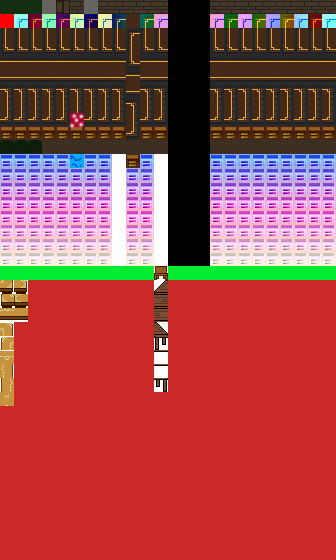
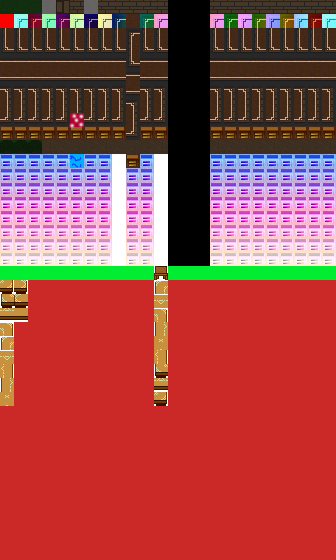
Adjusted Den puzzle code for mko's art tiles, saved state of stairs room after solving puzzle, working on search function

Changed region(s): [[0.4464, 0.4857, 0.506, 0.7286]]

diff --git a/js/World.js b/js/World.js
@@ -18,7 +18,6 @@ var worldGrid = [];
 var roomArtSet = 0;
 var rotDoor;
 
-var stairsPuzzleSolved = false;
 
 // ******BEGIN MAP EDITOR******
 
@@ -29,7 +28,7 @@ var levelStudy =
 		 10, 0, 0, 0, 0, 0, 0, 0, 0, 0, 0, 0, 0, 0, 0, 10,
 		 10, 0, 0, 0, 0, 0, 0, 0, 0, 0, 0, 0, 0, 0, 0, 10,
 		 10, 0, 0, 0, 0, 0, 0, 0, 0, 0, 0, 0, 0, 0, 0, 10,
-		 10, 0, 0, 0, 0, 0, 0, 100, 0, 0, 0, 0, 0, 0, 0, 10,
+		 10, 0, 0, 0, 0, 0, 0, 0, 0, 0, 0, 0, 0, 0, 0, 10,
 		 10, 0, 0, 0, 0, 0, 0, 0, 0, 0, 0, 0, 0, 0, 0, 0,
 		 10, 0, 0, 0, 0, 0, 0, 0, 0, 0, 0, 0, 0, 0, 0, 10,
 		 10, 0, 0, 0, 0, 0, 0, 0, 0, 0, 0, 0, 0, 0, 0, 10,
@@ -58,9 +57,9 @@ var levelDen =
 		 10, 0, 0, 0, 21, 0, 0, 0, 0, 0, 0, 0, 23, 0, 0, 10,
 		 10, 0, 0, 0, 0, 0, 22, 0, 0, 0, 0, 0, 0, 0, 0, 10,
 		 10, 0, 0, 0, 0, 20, 0, 25, 26, 0, 0, 0, 0, 0, 0, 10,
-		 205, 0, 0, 0, 0, 0, 0, 0, 0, 0, 0, 0, 0, 0, 0, 10,
+		 0, 0, 0, 0, 0, 0, 0, 0, 0, 0, 0, 0, 0, 0, 0, 10,
 		 10, 0, 24, 0, 0, 0, 0, 0, 0, 0, 0, 0, 0, 27, 0, 10,
-		 10, 0, 0, 0, 0, 0, 0, 0, 0, 0, 0, 0, 0, 0, 0, 10,
+		 10, 0, 0, 0, 0, 0, 0, 0, 0, 0, 0, 28, 0, 0, 0, 10,
 		 10, 0, 0, 0, 0, 0, 0, 0, 0, 0, 0, 0, 0, 0, 0, 10,
 		 10, 10, 10, 10, 10, 10, 10, 10, 10, 10, 10, 10, 10, 10, 10, 10,
 	];
@@ -71,7 +70,7 @@ var levelFoyerStairs =
 		 10, 0, 0, 0, 0, 0, 0, 0, 0, 0, 0, 0, 0, 0, 0, 10,
 		 10, 0, 0, 0, 0, 0, 0, 0, 0, 0, 0, 0, 0, 0, 0, 10,
 		 10, 0, 0, 0, 0, 0, 0, 0, 0, 0, 0, 0, 0, 0, 0, 10,
-		 10, 0, 0, 0, 0, 0, 0, 100, 0, 0, 0, 0, 0, 0, 0, 10,
+		 10, 0, 0, 0, 0, 0, 0, 0, 0, 0, 0, 0, 0, 0, 0, 10,
 		 0, 0, 0, 0, 0, 0, 0, 0, 0, 0, 0, 0, 0, 0, 0, 0,
 		 10, 0, 0, 0, 0, 0, 0, 0, 0, 0, 0, 0, 0, 0, 0, 10,
 		 10, 0, 0, 0, 0, 0, 0, 0, 0, 0, 0, 0, 0, 0, 0, 10,
@@ -85,7 +84,7 @@ var levelDiningRoom =
 		 10, 0, 0, 0, 0, 0, 0, 0, 0, 0, 0, 0, 0, 0, 0, 10,
 		 10, 0, 0, 0, 0, 0, 0, 0, 0, 0, 0, 0, 0, 0, 0, 10,
 		 10, 0, 0, 0, 0, 0, 0, 0, 0, 0, 0, 0, 0, 0, 0, 10,
-		 10, 0, 0, 0, 0, 0, 0, 100, 0, 0, 0, 0, 0, 0, 0, 10,
+		 10, 0, 0, 0, 0, 0, 0, 0, 0, 0, 0, 0, 0, 0, 0, 10,
 		 0, 0, 0, 0, 0, 0, 0, 0, 0, 0, 0, 0, 0, 0, 0, 10,
 		 10, 0, 0, 0, 0, 0, 0, 0, 0, 0, 0, 0, 0, 0, 0, 10,
 		 10, 0, 0, 0, 0, 0, 0, 0, 0, 0, 0, 0, 0, 0, 0, 10,
@@ -113,7 +112,7 @@ var levelKitchen =
 		 10, 0, 0, 0, 11, 11, 11, 11, 11, 11, 11, 11, 0, 0, 0, 10,
 		 10, 0, 0, 0, 11, 11, 11, 11, 11, 11, 11, 11, 0, 0, 0, 10,
 		 10, 0, 0, 0, 11, 11, 11, 11, 11, 11, 11, 11, 0, 11, 0, 10,
-		 10, 0, 0, 0, 0, 0, 0, 100, 0, 0, 0, 0, 0, 0, 0, 10,
+		 10, 0, 0, 0, 0, 0, 0, 0, 0, 0, 0, 0, 0, 0, 0, 10,
 		 10, 0, 0, 0, 0, 0, 0, 0, 0, 0, 0, 0, 0, 0, 0, 10,
 		 10, 0, 0, 0, 0, 0, 0, 0, 0, 0, 0, 0, 0, 0, 0, 10,
 		 10, 0, 0, 0, 0, 15, 0, 0, 0, 0, 0, 0, 0, 0, 0, 10,
@@ -127,7 +126,7 @@ var levelGardenLeft =
 		 10, 0, 0, 0, 0, 0, 0, 0, 0, 0, 0, 0, 0, 0, 0, 0,
 		 10, 0, 0, 0, 0, 0, 0, 0, 0, 0, 0, 0, 0, 0, 0, 0,
 		 10, 0, 0, 0, 0, 0, 0, 0, 0, 0, 0, 0, 0, 0, 0, 0,
-		 10, 0, 0, 0, 0, 0, 0, 100, 0, 0, 0, 0, 0, 0, 0, 0,
+		 10, 0, 0, 0, 0, 0, 0, 0, 0, 0, 0, 0, 0, 0, 0, 0,
 		 10, 0, 0, 0, 0, 0, 0, 0, 0, 0, 0, 0, 0, 0, 0, 0,
 		 10, 0, 0, 0, 0, 0, 0, 0, 0, 0, 0, 0, 0, 0, 0, 0,
 		 10, 0, 0, 0, 0, 0, 0, 0, 0, 0, 0, 0, 0, 0, 0, 0,
@@ -141,7 +140,7 @@ var levelGardenMiddle =
 		 0, 0, 0, 0, 0, 0, 0, 0, 0, 0, 0, 0, 0, 0, 0, 0,
 		 0, 0, 0, 0, 0, 0, 0, 0, 0, 0, 0, 0, 0, 0, 0, 0,
 		 0, 0, 0, 0, 0, 0, 0, 0, 0, 0, 0, 0, 0, 0, 0, 0,
-		 0, 0, 0, 0, 0, 0, 0, 100, 0, 0, 0, 0, 0, 0, 0, 0,
+		 0, 0, 0, 0, 0, 0, 0, 0, 0, 0, 0, 0, 0, 0, 0, 0,
 		 0, 0, 0, 0, 0, 0, 0, 0, 0, 0, 0, 0, 0, 0, 0, 0,
 		 0, 0, 0, 0, 0, 0, 0, 0, 0, 0, 0, 0, 0, 0, 0, 0,
 		 0, 0, 0, 0, 0, 0, 0, 0, 0, 0, 0, 0, 0, 0, 0, 0,
@@ -155,7 +154,7 @@ var levelGardenRight =
 		 0, 0, 0, 0, 0, 0, 0, 0, 0, 0, 0, 0, 0, 0, 0, 10,
 		 0, 0, 0, 0, 0, 0, 0, 0, 0, 0, 0, 0, 0, 0, 0, 10,
 		 0, 0, 0, 0, 0, 0, 0, 0, 0, 0, 0, 0, 0, 0, 0, 10,
-		 0, 0, 0, 0, 0, 0, 0, 100, 0, 0, 0, 0, 0, 0, 0, 10,
+		 0, 0, 0, 0, 0, 0, 0, 0, 0, 0, 0, 0, 0, 0, 0, 10,
 		 0, 0, 0, 0, 0, 0, 0, 0, 0, 0, 0, 0, 0, 0, 0, 10,
 		 0, 0, 0, 0, 0, 0, 0, 0, 0, 0, 0, 0, 0, 0, 0, 10,
 		 0, 0, 0, 0, 0, 0, 0, 0, 0, 0, 0, 0, 0, 0, 0, 10,
@@ -184,7 +183,7 @@ var levelBedroomTwo =
 		 10, 0, 0, 0, 0, 0, 0, 0, 0, 0, 0, 0, 0, 0, 0, 10,
 		 10, 0, 0, 0, 0, 0, 0, 0, 0, 0, 0, 0, 0, 0, 0, 10,
 		 10, 0, 0, 0, 0, 0, 0, 0, 0, 0, 0, 0, 0, 0, 0, 10,
-		 10, 0, 0, 0, 0, 0, 0, 100, 0, 0, 0, 0, 0, 0, 0, 10,
+		 10, 0, 0, 0, 0, 0, 0, 0, 0, 0, 0, 0, 0, 0, 0, 10,
 		 10, 0, 0, 0, 0, 0, 0, 0, 0, 0, 0, 0, 0, 0, 0, 10,
 		 10, 0, 0, 0, 0, 0, 0, 0, 0, 0, 0, 0, 0, 0, 0, 10,
 		 10, 0, 0, 0, 0, 0, 0, 0, 0, 0, 0, 0, 0, 0, 0, 10,
@@ -198,7 +197,7 @@ var levelBedroomThree =
 		 10, 0, 0, 0, 0, 0, 0, 0, 0, 0, 0, 0, 0, 0, 0, 10,
 		 10, 0, 0, 0, 0, 0, 0, 0, 0, 0, 0, 0, 0, 0, 0, 10,
 		 10, 0, 0, 0, 0, 0, 0, 0, 0, 0, 0, 0, 0, 0, 0, 10,
-		 10, 0, 0, 0, 0, 0, 0, 100, 0, 0, 0, 0, 0, 0, 0, 10,
+		 10, 0, 0, 0, 0, 0, 0, 0, 0, 0, 0, 0, 0, 0, 0, 10,
 		 10, 0, 0, 0, 0, 0, 0, 0, 0, 0, 0, 0, 0, 0, 0, 10,
 		 10, 0, 0, 0, 0, 0, 0, 0, 0, 0, 0, 0, 0, 0, 0, 10,
 		 10, 0, 0, 0, 0, 0, 0, 0, 0, 0, 0, 0, 0, 0, 0, 10,
@@ -212,7 +211,7 @@ var levelHallwayLeft =
 		 10, 0, 0, 0, 0, 0, 0, 0, 0, 0, 0, 0, 0, 0, 0, 0,
 		 10, 0, 0, 0, 0, 0, 0, 0, 0, 0, 0, 0, 0, 0, 0, 0,
 		 10, 0, 0, 0, 0, 0, 0, 0, 0, 0, 0, 0, 0, 0, 0, 0,
-		 10, 0, 0, 0, 0, 0, 0, 100, 0, 0, 0, 0, 0, 0, 0, 0,
+		 10, 0, 0, 0, 0, 0, 0, 0, 0, 0, 0, 0, 0, 0, 0, 0,
 		 10, 0, 0, 0, 0, 0, 0, 0, 0, 0, 0, 0, 0, 0, 0, 0,
 		 10, 0, 0, 0, 0, 0, 0, 0, 0, 0, 0, 0, 0, 0, 0, 0,
 		 10, 0, 0, 0, 0, 0, 0, 0, 0, 0, 0, 0, 0, 0, 0, 0,
@@ -226,7 +225,7 @@ var levelHallwayMiddle =
 		 0, 0, 0, 0, 0, 0, 0, 0, 0, 0, 0, 0, 0, 0, 0, 0,
 		 0, 0, 0, 0, 0, 0, 0, 0, 0, 0, 0, 0, 0, 0, 0, 0,
 		 0, 0, 0, 0, 0, 0, 0, 0, 0, 0, 0, 0, 0, 0, 0, 0,
-		 0, 0, 0, 0, 0, 0, 0, 100, 0, 0, 0, 0, 0, 0, 0, 0,
+		 0, 0, 0, 0, 0, 0, 0, 0, 0, 0, 0, 0, 0, 0, 0, 0,
 		 0, 0, 0, 0, 0, 0, 0, 0, 0, 0, 0, 0, 0, 0, 0, 0,
 		 0, 0, 0, 0, 0, 0, 0, 0, 0, 0, 0, 0, 0, 0, 0, 0,
 		 0, 0, 0, 0, 0, 0, 0, 0, 0, 0, 0, 0, 0, 0, 0, 0,
@@ -240,7 +239,7 @@ var levelHallwayRight =
 		 0, 0, 0, 0, 0, 0, 0, 0, 0, 0, 0, 0, 0, 0, 0, 10,
 		 0, 0, 0, 0, 0, 0, 0, 0, 0, 0, 0, 0, 0, 0, 0, 10,
 		 0, 0, 0, 0, 0, 0, 0, 0, 0, 0, 0, 0, 0, 0, 0, 10,
-		 0, 0, 0, 0, 0, 0, 0, 100, 0, 0, 0, 0, 0, 0, 0, 10,
+		 0, 0, 0, 0, 0, 0, 0, 0, 0, 0, 0, 0, 0, 0, 0, 10,
 		 0, 0, 0, 0, 0, 0, 0, 0, 0, 0, 0, 0, 0, 0, 0, 10,
 		 0, 0, 0, 0, 0, 0, 0, 0, 0, 0, 0, 0, 0, 0, 0, 10,
 		 0, 0, 0, 0, 0, 0, 0, 0, 0, 0, 0, 0, 0, 0, 0, 10,
@@ -254,7 +253,7 @@ var levelBedroomFour =
 		 10, 0, 0, 0, 0, 0, 8, 8, 8, 0, 0, 0, 0, 0, 0, 10,
 		 10, 0, 0, 0, 0, 0, 8, 8, 8, 0, 0, 0, 0, 0, 0, 10,
 		 10, 0, 0, 0, 0, 0, 8, 8, 8, 0, 0, 0, 0, 0, 0, 10,
-		 10, 0, 0, 0, 0, 0, 0, 100, 0, 0, 0, 0, 0, 0, 0, 10,
+		 10, 0, 0, 0, 0, 0, 0, 0, 0, 0, 0, 0, 0, 0, 0, 10,
 		 10, 0, 0, 0, 0, 0, 0, 0, 0, 0, 0, 0, 0, 0, 0, 10,
 		 10, 0, 0, 0, 0, 0, 0, 0, 0, 0, 0, 0, 0, 0, 0, 10,
 		 10, 0, 0, 0, 0, 0, 0, 0, 0, 0, 10, 10, 10, 10, 10, 10,
@@ -268,7 +267,7 @@ var levelKitchenBedroomFourMerged =
 	 10, 0, 0, 0, 11, 11, 8, 8, 8, 11, 11, 11, 0, 0, 0, 10,
 	 10, 0, 0, 0, 11, 11, 8, 8, 8, 11, 11, 11, 0, 0, 0, 10,
 	 10, 0, 0, 0, 11, 11, 8, 8, 8, 11, 11, 11, 0, 11, 0, 10,
-	 10, 0, 0, 0, 0, 0, 0, 100, 0, 0, 0, 0, 0, 0, 0, 10,
+	 10, 0, 0, 0, 0, 0, 0, 0, 0, 0, 0, 0, 0, 0, 0, 10,
 	 10, 0, 0, 0, 0, 0, 0, 0, 0, 0, 0, 0, 0, 0, 0, 10,
 	 10, 0, 0, 0, 0, 0, 0, 0, 0, 0, 0, 0, 0, 0, 0, 10,
 	 10, 0, 0, 0, 0, 19, 0, 0, 0, 0, 0, 0, 0, 0, 0, 10,
@@ -284,7 +283,7 @@ var levelBasementFoyerEntrance =
 		 10, 0, 0, 0, 0, 0, 0, 0, 0, 0, 0, 0, 0, 0, 0, 10,
 		 10, 0, 0, 0, 0, 0, 0, 0, 0, 0, 0, 0, 0, 0, 0, 10,
 		 10, 0, 0, 0, 0, 0, 0, 0, 0, 0, 0, 0, 0, 0, 0, 10,
-		 10, 0, 0, 0, 0, 0, 0, 100, 0, 0, 0, 0, 0, 0, 0, 10,
+		 10, 0, 0, 0, 0, 0, 0, 0, 0, 0, 0, 0, 0, 0, 0, 10,
 		 10, 0, 0, 0, 0, 0, 0, 0, 0, 0, 0, 0, 0, 0, 0, 0,
 		 10, 0, 0, 0, 0, 0, 0, 0, 0, 0, 0, 0, 0, 0, 0, 10,
 		 10, 0, 0, 0, 0, 0, 0, 0, 0, 0, 0, 0, 0, 0, 0, 10,
@@ -299,7 +298,7 @@ var levelBasementGardenExit =
 		 10, 0, 0, 0, 0, 0, 0, 0, 0, 0, 0, 0, 0, 0, 0, 10,
 		 10, 0, 0, 0, 0, 0, 0, 0, 0, 0, 0, 0, 0, 0, 0, 10,
 		 10, 0, 0, 0, 0, 0, 0, 0, 0, 0, 0, 0, 0, 0, 0, 10,
-		 10, 0, 0, 0, 0, 0, 0, 100, 0, 0, 0, 0, 0, 0, 0, 10,
+		 10, 0, 0, 0, 0, 0, 0, 0, 0, 0, 0, 0, 0, 0, 0, 10,
 		 10, 0, 0, 0, 0, 0, 0, 0, 0, 0, 0, 0, 0, 0, 0, 10,
 		 10, 0, 0, 0, 0, 0, 0, 0, 0, 0, 0, 0, 0, 0, 0, 10,
 		 10, 0, 0, 0, 0, 0, 0, 0, 0, 0, 0, 0, 0, 0, 0, 10,
@@ -312,7 +311,7 @@ var levelAttic =
 		 10, 0, 0, 0, 0, 0, 0, 0, 0, 0, 0, 0, 0, 0, 0, 10,
 		 10, 0, 0, 0, 0, 0, 0, 0, 0, 0, 0, 0, 0, 0, 0, 10,
 		 10, 0, 0, 0, 0, 0, 0, 0, 0, 0, 0, 0, 0, 0, 0, 10,
-		 10, 0, 0, 0, 0, 0, 0, 100, 0, 0, 0, 0, 0, 0, 0, 10,
+		 10, 0, 0, 0, 0, 0, 0, 0, 0, 0, 0, 0, 0, 0, 0, 10,
 		 10, 0, 0, 0, 0, 0, 0, 0, 0, 0, 0, 0, 0, 0, 0, 10,
 		 10, 0, 0, 0, 0, 0, 0, 0, 0, 0, 0, 0, 0, 0, 0, 10,
 		 10, 0, 0, 0, 0, 0, 0, 0, 0, 0, 0, 0, 0, 0, 0, 10,

diff --git a/js/RoomCheck.js b/js/RoomCheck.js
@@ -1,22 +1,40 @@
 var denPuzzleSolved = false;
+var stairsPuzzleSolved = false;
 
 function checkRoomLogic()
 {
     checkDen();
+    checkStairs();
+}
+
+function checkFoyerEntrance()
+{
+
 }
 
 function checkDen()
 {
-    if (roomCoordToIndex() == ROOM_ID_DEN)
+    if (roomCoordToIndex() == ROOM_ID_DEN && denPuzzleSolved == false)
     {
-        if (worldGrid[69] == 20 && worldGrid[70] == 21 && worldGrid[71] == 22 && worldGrid[72] == 23
-                && worldGrid[85] == 24 && (worldGrid[86] == 25 || worldGrid[86] == 26) && (worldGrid[87] == 26 || worldGrid[87] == 25) && worldGrid[88] == 27
-                && denPuzzleSolved == false) // Check if all table pieces are assembled in the correct order. Bottom middle pieces are interchangeable
+        if (worldGrid[69] == 20 && worldGrid[70] == 21 && worldGrid[71] == 22
+                && worldGrid[85] == 23 && worldGrid[86] == 24 && worldGrid[87] == 25
+                && worldGrid[101] == 26 && worldGrid[102] == 27 && worldGrid[103] == 28
+                && denPuzzleSolved == false) // Check if all table pieces are assembled in the correct order
         {
             denPuzzleSolved = true;
             spawnKey(TILE_KEY_GARDEN, 91);
-            postMessage("Dialogue bark for den puzzle solved.");
+            postMessage(dialogueDenPuzzleSolved);
         }
+    }
+}
+
+function checkStairs()
+{
+    if (roomCoordToIndex() == ROOM_ID_STAIRS && stairsPuzzleSolved)
+    {      
+        roomLayout[roomCoordToIndex()][18] = 0; // Delete original mirror
+        roomLayout[roomCoordToIndex()][24] = 19; // Move fixed mirror to midde
+        roomLayout[roomCoordToIndex()][140] = 0; // Delete ghost roman
     }
 }
 

diff --git a/js/Enemy.js b/js/Enemy.js
@@ -139,13 +139,14 @@ function EnemyClass()
 	        if (roman.x > centerOfRoomCoordRoman && worldGrid[24] < TILES_PUSHABLE_FIRST)
 	        {
 	            roman.x = centerOfRoomCoordRoman;
-	            postMessage(dialogueEnemyRomanWithoutMirror);
+	            postMessage(dialogueGhostRoman);
 	        }
 	        else if (roman.x > centerOfRoomCoordRoman && worldGrid[24] >= TILES_PUSHABLE_FIRST)
 	        {
 	            this.isFrozen = true;
 	            stairsPuzzleSolved = true;
-	            postMessage(dialogueEnemyRomanWithMirror);
+	            worldGrid[24] = 19;
+	            postMessage(dialogueStairsPuzzleSolved);
 	        }
 	    }	    
 	}

diff --git a/js/Dialogue.js b/js/Dialogue.js
@@ -1,2 +1,7 @@
-var dialogueEnemyRomanWithoutMirror = "Ghost Roman will not allow you to pass.";
-var dialogueEnemyRomanWithMirror = "Ghost Roman is mesmorized by his reflection.";
+var dialogueStairsPuzzleNotSolved = "Ghost Roman will not allow you to pass.";
+var dialogueGhostRoman = "Ghost Roman will not allow you to pass.";
+var dialogueStairsPuzzleSolved = "Ghost Roman is mesmorized by his reflection.";
+
+var dialogueDenPuzzleNotSolved = "Hint: Top left piece of the table is already in the correct spot.";
+var dialogueDenPuzzleSolved = "Dialogue bark for den puzzle solved.";
+

diff --git a/js/Main.js b/js/Main.js
@@ -85,9 +85,13 @@ function loadLevel(whichLevelIdx, preservePlayerStart)
 		enemyList.push(tempEnemy);
 		tempEnemy = new EnemyClass();
 	}
-	if (whichLevelIdx == ROOM_ID_DEN)
+	if (whichLevelIdx == ROOM_ID_DEN && denPuzzleSolved == false)
 	{
-	    postMessage("Hint: Top left piece of the table is already in the correct spot.");
+	    postMessage(dialogueDenPuzzleNotSolved);
+	}
+	else if (whichLevelIdx == ROOM_ID_STAIRS && stairsPuzzleSolved == false)
+	{
+	    postMessage(dialogueStairsPuzzleNotSolved);
 	}
 	else if (isFlashLightNeededButMissing())
 	{

diff --git a/js/Input.js b/js/Input.js
@@ -5,6 +5,7 @@ const KEY_DOWN_ARROW = 40;
 const KEY_SPACE = 32;
 
 const KEY_L = 76;
+const KEY_F = 70;
 const KEY_1 = 49;
 const KEY_2 = 50;
 const KEY_3 = 51;
@@ -61,9 +62,12 @@ function keyPressed(evt)
             editorTileSelected = true;
             displayCurrentRoomTiles();
         }
+    }
 
-
-	}
+    if (evt.keyCode == KEY_F)
+    {
+        roman.search(romanCurrentIndex);
+    }
 
     if (isEditorMode)
     {

diff --git a/js/Hero.js b/js/Hero.js
@@ -249,6 +249,11 @@ function heroClass()
 	{
 	    drawBitmapCenteredWithRotation(this.myHeroPic, this.x, this.y-this.myHeroPic.height/2+1, 0); // GraphicCommon.js
 	}
+    
+	this.search = function(whichIndex)
+	{
+	    console.log("Roman is searching at index " + whichIndex);
+	}
 }
 
 function pickedUpItem(artStrip, itemIdx)
